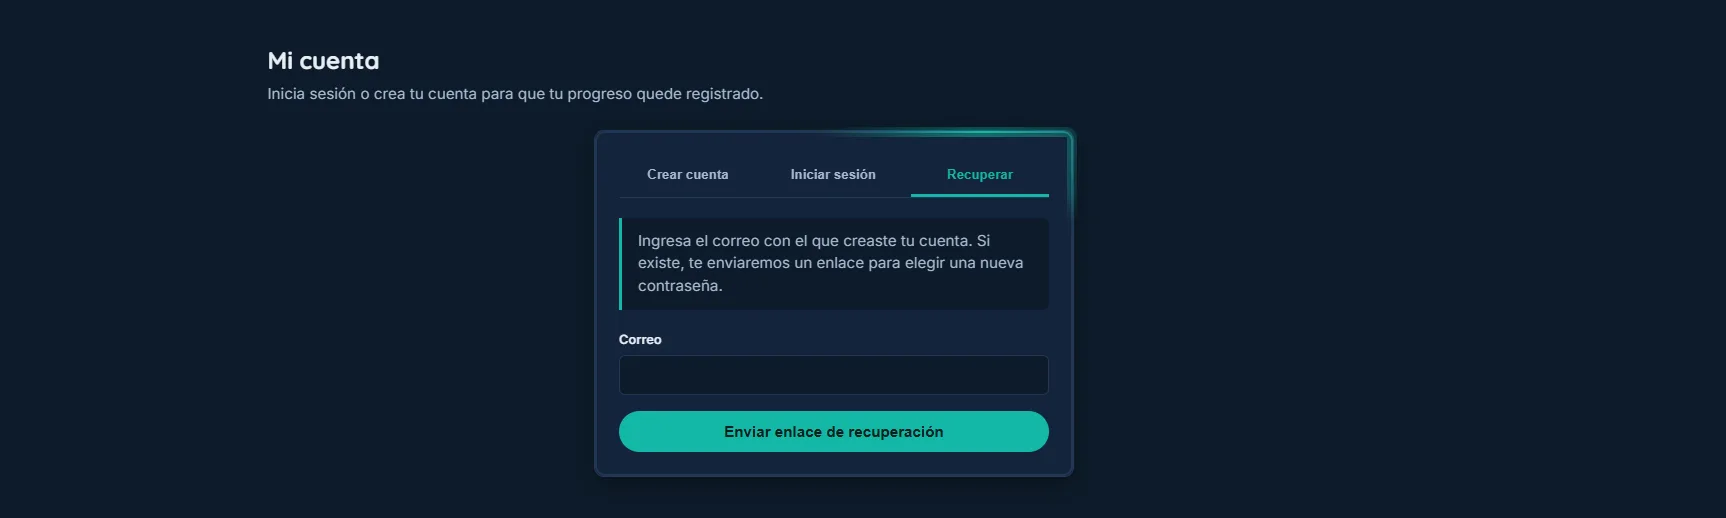
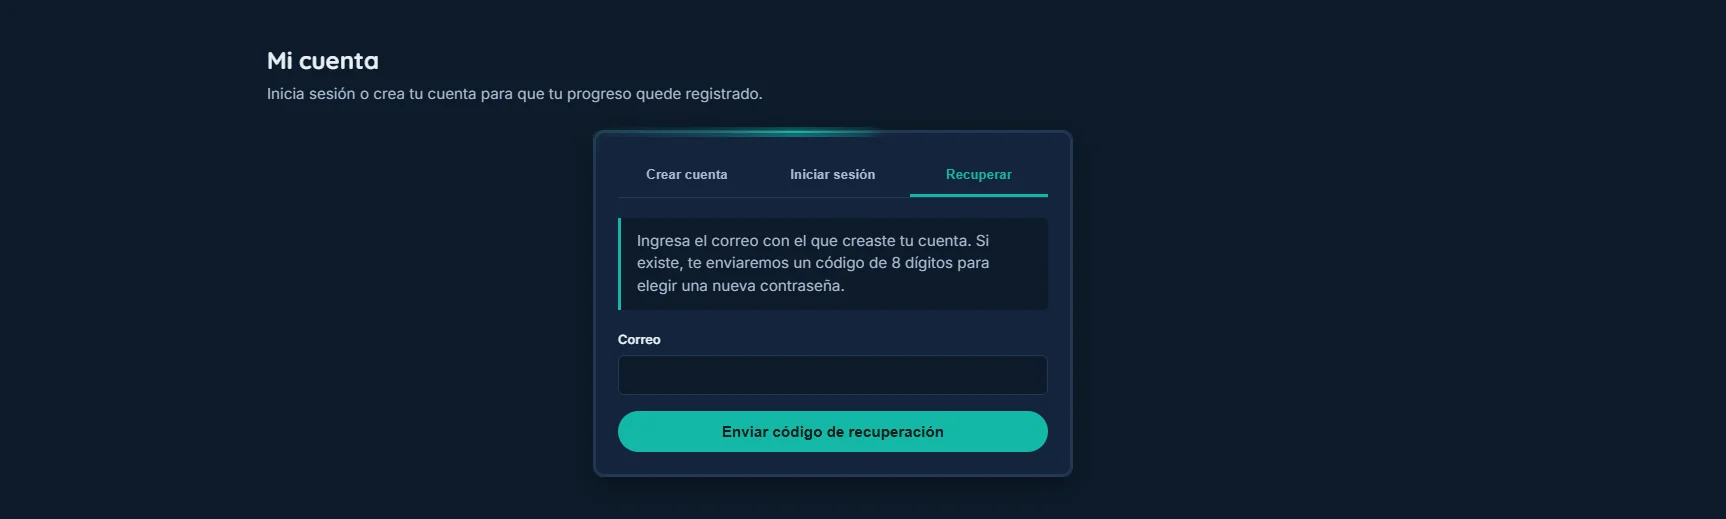
docs: actualizar guía de recuperación de contraseña con código de 8 dígitos

diff --git a/guia.html b/guia.html
@@ -454,13 +454,13 @@
         </div>
         <p class="guia-paso__por-que"><strong>¿Por qué importa?</strong> No necesitas pedirle a tu profesor un código nuevo solo porque olvidaste tu contraseña — se recupera tú mismo en un minuto.</p>
         <ol class="guia-paso__lista">
-          <li>En "Mi cuenta", toca la pestaña "Recuperar contraseña".</li>
-          <li>Escribe el mismo correo con el que creaste tu cuenta.</li>
-          <li>Revisa tu bandeja de entrada (y también spam, por si acaso) — llega un enlace para crear una nueva contraseña.</li>
-          <li>Sigue el enlace, define tu nueva contraseña y vuelve a iniciar sesión con ella.</li>
+          <li>En "Mi cuenta", toca la pestaña "Recuperar".</li>
+          <li>Escribe el mismo correo con el que creaste tu cuenta y toca "Enviar código de recuperación".</li>
+          <li>Revisa tu bandeja de entrada (y también spam, por si acaso) — te llega un código de 8 dígitos, no un enlace.</li>
+          <li>Escribe ese código junto con tu nueva contraseña en la misma pantalla, y confírmala.</li>
         </ol>
         <div class="guia-paso__ejemplo">
-          <p><strong>Ejemplo típico:</strong> Llevas semanas sin entrar y ya no recuerdas tu contraseña. En vez de crear una cuenta nueva (que perdería tu progreso), usas "Recuperar contraseña" con tu correo de siempre.</p>
+          <p><strong>Ejemplo típico:</strong> Llevas semanas sin entrar y ya no recuerdas tu contraseña. En vez de crear una cuenta nueva (que perdería tu progreso), escribes tu correo en "Recuperar", copias el código de 8 dígitos que te llega, y en menos de un minuto ya tienes una contraseña nueva.</p>
         </div>
       </div>
 
